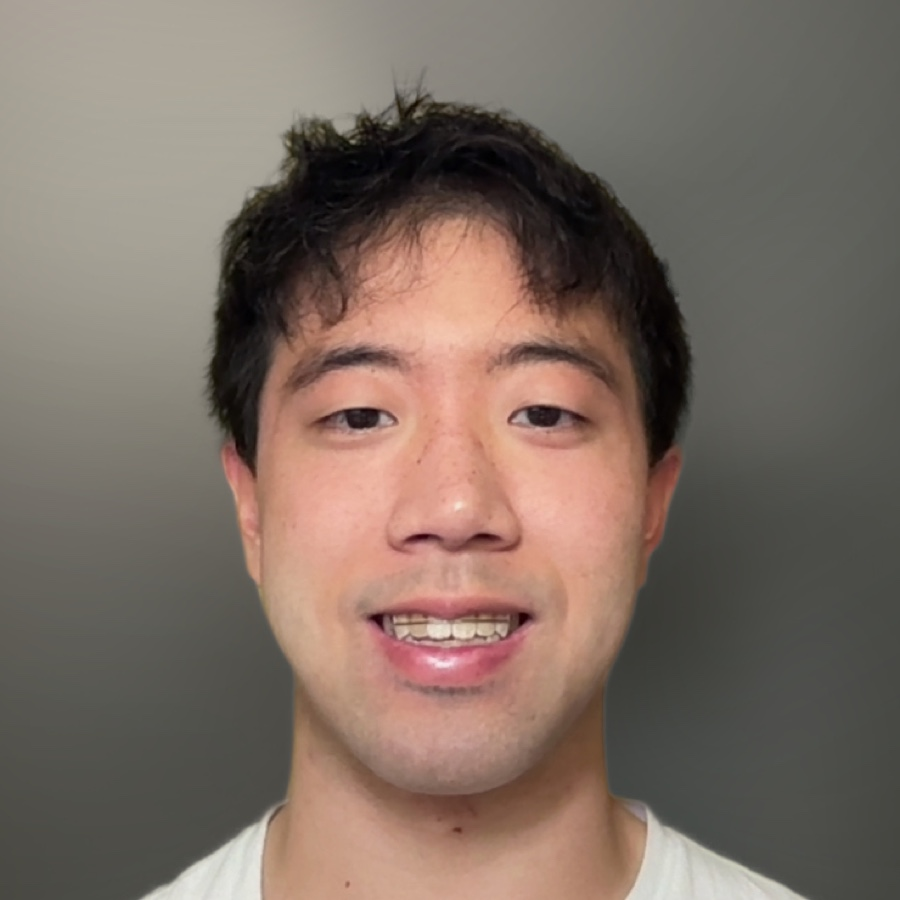
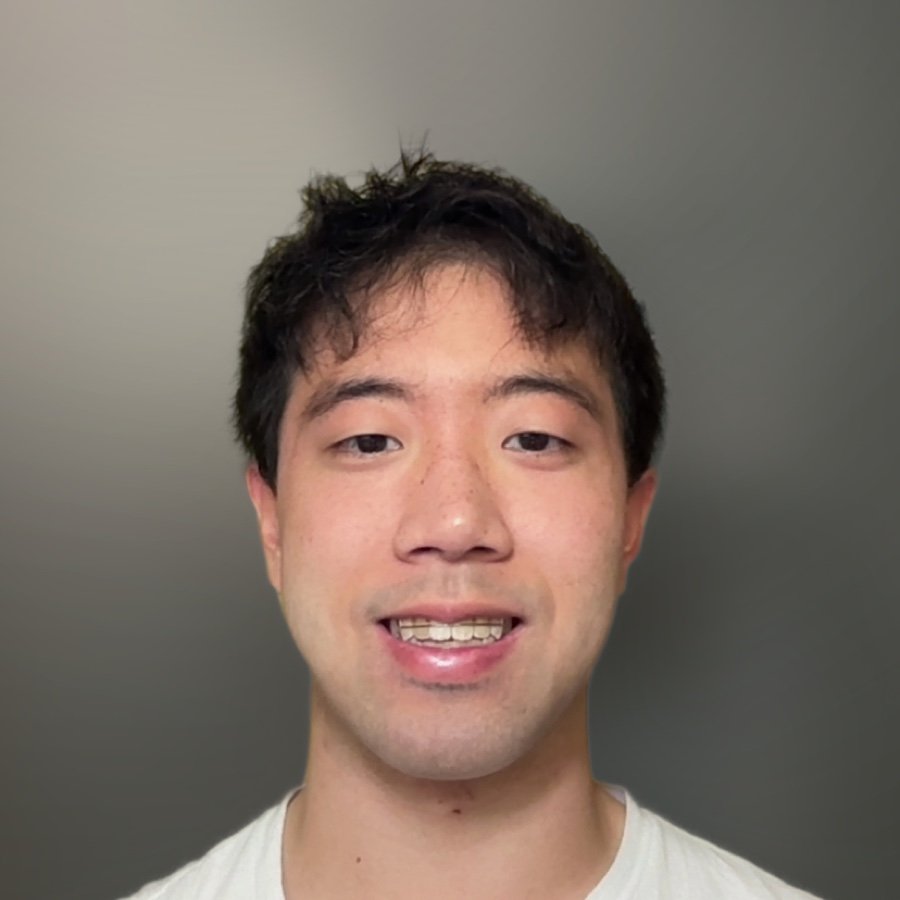
Zoom the home page photo out halfway
At 1.26x the face was too large. This is halfway in face size between
that and the original framing: an 828x828 square cut from
src/assets/clarity_final_preview.jpg at 125 from the left and 73 from
the top (about 1.13x), scaled to 900x900. The description now just
says portrait.

diff --git a/src/lib/site.ts b/src/lib/site.ts
@@ -14,7 +14,7 @@ export const SHORT_NAME = "Davin Kyi";
 export const PERSON_ID = `${SITE_URL}/#person`;
 
 // What the two portraits show: their alt text, and the description built into the files.
-export const HOME_PORTRAIT_ALT = `Close-up portrait of ${FULL_NAME} smiling in a white T-shirt against a plain gray background`;
+export const HOME_PORTRAIT_ALT = `Portrait of ${FULL_NAME} smiling in a white T-shirt against a plain gray background`;
 export const ABOUT_PORTRAIT_ALT = `${FULL_NAME} wearing a mixed-reality headset in front of a graffiti wall`;
 
 // A photo's entry in structured data: Davin Win Kyi took or made it (as confirmed) and is credited
